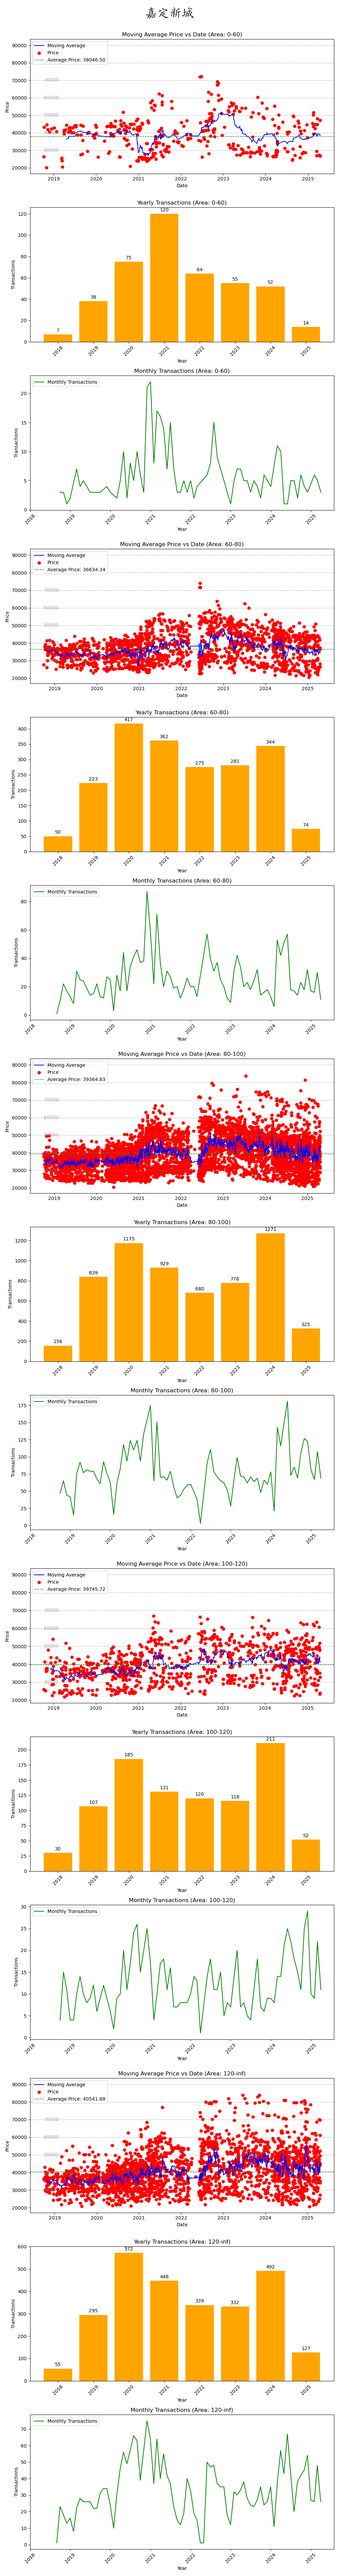
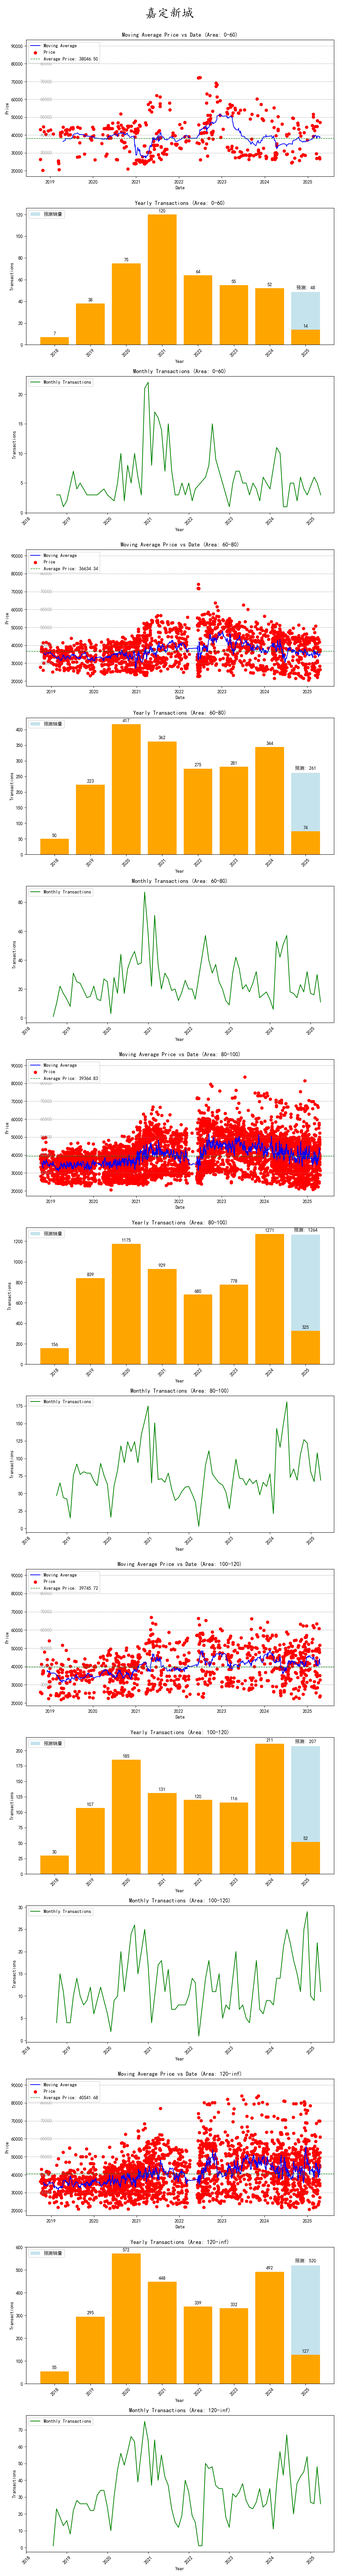
change process

diff --git a/real_estate/sh/plot.py b/real_estate/sh/plot.py
@@ -2,9 +2,15 @@ import json
 import os
 import pandas as pd
 import matplotlib.pyplot as plt
+import matplotlib.font_manager as fm
 from PIL import Image, ImageDraw, ImageFont
 from pypinyin import pinyin, Style
 import argparse
+import datetime
+
+# 在绘图前设置全局字体
+plt.rcParams['font.sans-serif'] = ['SimHei']  # 设置默认字体为黑体
+plt.rcParams['axes.unicode_minus'] = False  # 解决保存图像时负号'-'显示为方块的问题
 
 def get_pinyin_initials(text):
     return ''.join([item[0][0] for item in pinyin(text, style=Style.FIRST_LETTER)])
@@ -85,19 +91,101 @@ for area_range in area_ranges:
 
     # 绘制年度成交量柱状图
     yearly_transactions = filtered_df.groupby(filtered_df['date'].dt.year).size()
-    bars = axes[1].bar(yearly_transactions.index, yearly_transactions.values, color='orange')
+    
+    # 获取当前年份
+    current_year = datetime.datetime.now().year
+    
+    # 检查是否有当前年份的数据
+    if current_year in yearly_transactions.index:
+        # 计算前几年每月销售占比
+        filtered_df['month'] = filtered_df['date'].dt.month
+        filtered_df['year_month'] = filtered_df['date'].dt.strftime('%Y-%m')
+        
+        # 获取历史年份（不包括当前年份）
+        historical_years = [year for year in yearly_transactions.index if year < current_year]
+        
+        if len(historical_years) > 0:
+            # 计算历史年份的月度销售占比
+            monthly_ratios = {}
+            for year in historical_years:
+                year_data = filtered_df[filtered_df['year'] == year]
+                year_total = year_data.shape[0]
+                if year_total > 0:  # 避免除以零
+                    for month in range(1, 13):
+                        month_data = year_data[year_data['month'] == month]
+                        month_count = month_data.shape[0]
+                        if month not in monthly_ratios:
+                            monthly_ratios[month] = []
+                        monthly_ratios[month].append(month_count / year_total)
+            
+            # 计算每月平均占比
+            avg_monthly_ratios = {month: sum(ratios)/len(ratios) if ratios else 0 
+                                for month, ratios in monthly_ratios.items()}
+            
+            # 获取当前年份已有数据的最后一个月
+            current_year_data = filtered_df[filtered_df['year'] == current_year]
+            current_months = current_year_data['month'].unique()
+            last_month = max(current_months) if len(current_months) > 0 else 0
+            
+            # 计算当前年份已有销量
+            current_year_sales = current_year_data.shape[0]
+            
+            # 如果当前年份有数据且不是12月（即年份未结束）
+            if last_month > 0 and last_month < 12:
+                # 计算已有月份的总占比
+                completed_ratio = sum([avg_monthly_ratios.get(m, 0) for m in range(1, last_month + 1)])
+                
+                # 避免除以零
+                if completed_ratio > 0:
+                    # 预测全年销量
+                    predicted_total = current_year_sales / completed_ratio
+                    
+                    # 创建预测数据
+                    actual_sales = yearly_transactions[current_year]
+                    predicted_additional = max(0, predicted_total - actual_sales)  # 确保预测增量为正
+                    
+                    # 绘制实际销量和预测销量
+                    bars = axes[1].bar(yearly_transactions.index, yearly_transactions.values, color='orange')
+                    
+                    # 在当前年份的柱子上叠加预测部分
+                    if predicted_additional > 0:
+                        axes[1].bar([current_year], [predicted_additional], bottom=[actual_sales], 
+                                   color='lightblue', alpha=0.7, label='预测销量')
+                        
+                        # 在柱子顶部添加预测总量标签
+                        total_height = actual_sales + predicted_additional
+                        axes[1].annotate(f'预测: {int(total_height)}',
+                                       xy=(current_year, total_height),
+                                       xytext=(0, 5),
+                                       textcoords="offset points",
+                                       ha='center', va='bottom')
+                else:
+                    bars = axes[1].bar(yearly_transactions.index, yearly_transactions.values, color='orange')
+            else:
+                bars = axes[1].bar(yearly_transactions.index, yearly_transactions.values, color='orange')
+        else:
+            bars = axes[1].bar(yearly_transactions.index, yearly_transactions.values, color='orange')
+    else:
+        bars = axes[1].bar(yearly_transactions.index, yearly_transactions.values, color='orange')
+    
     axes[1].set_title(f'Yearly Transactions (Area: {area_min}-{area_max})')
     axes[1].set_xlabel('Year')
     axes[1].set_ylabel('Transactions')
     axes[1].set_xticks(yearly_transactions.index)
     axes[1].set_xticklabels(yearly_transactions.index, rotation=45)
+    
+    # 为每个柱子添加数值标签
     for bar in bars:
         height = bar.get_height()
-        axes[1].annotate('{}'.format(height),
+        axes[1].annotate('{}'.format(int(height)),
                          xy=(bar.get_x() + bar.get_width() / 2, height),
                          xytext=(0, 3),
                          textcoords="offset points",
                          ha='center', va='bottom')
+    
+    # 添加图例
+    if current_year in yearly_transactions.index:
+        axes[1].legend(loc='upper left')
 
     # 绘制月度成交量折线图
     monthly_transactions = filtered_df.groupby(filtered_df['date'].dt.to_period('M')).size()
